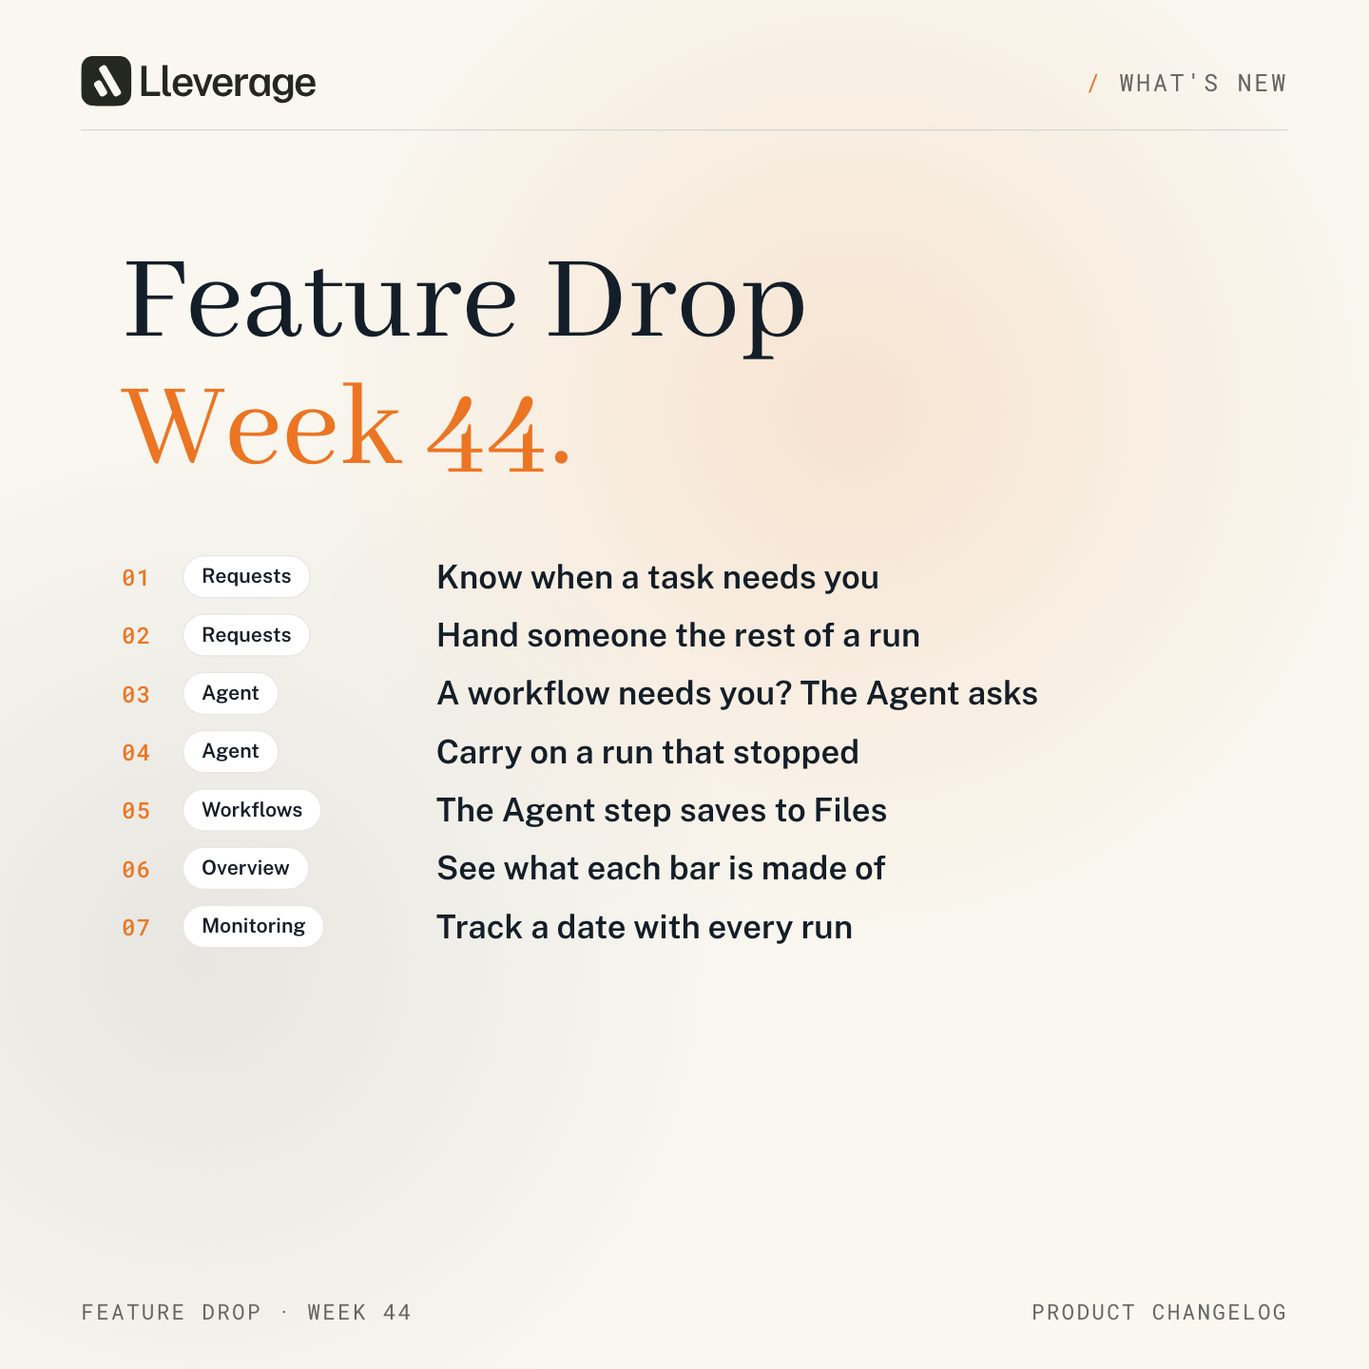
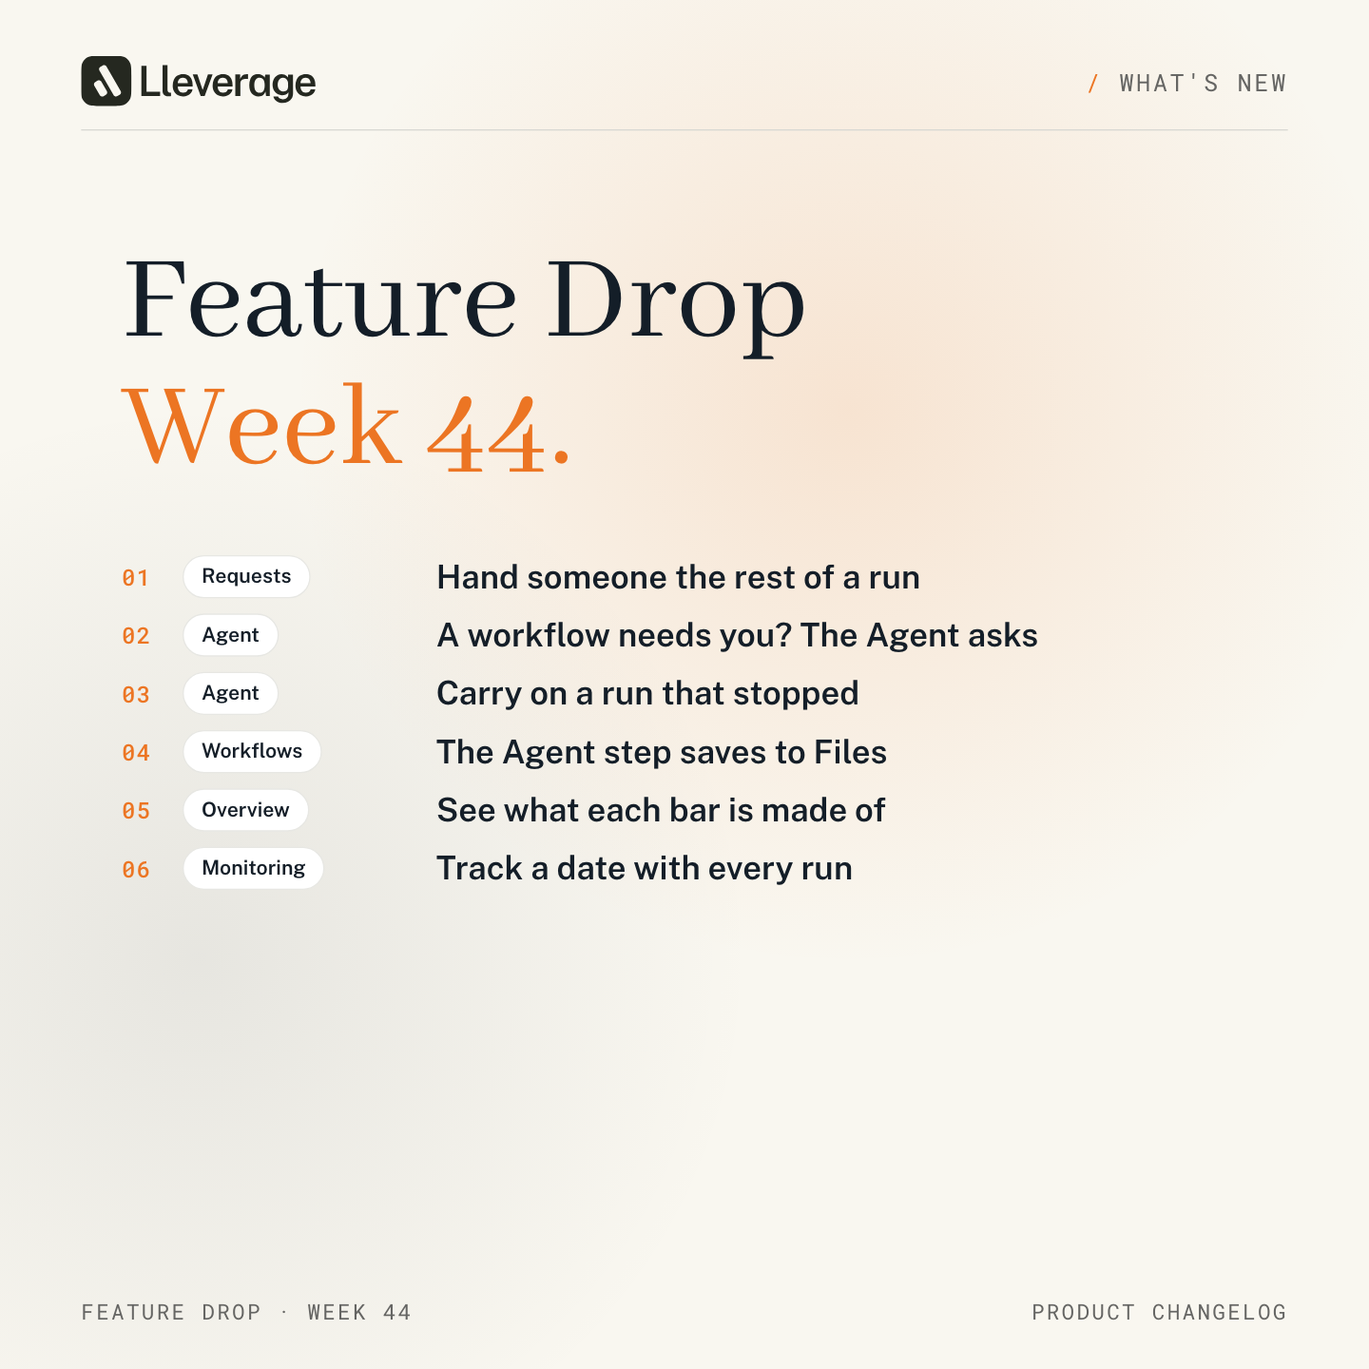
Feature Drop Week 44: six chapters, no push-in on holds, nothing behind a flag
Task notifications and expiring tasks are out: they live only where person tasks are on (conversational-requests). The camera no longer pushes in during holds. Stop the Agent from Slack takes the free Also new row; post and changelog rewritten to match.

Changed region(s): [[0.3125, 0.4062, 0.75, 0.6875], [0.125, 0.5312, 0.25, 0.7188], [0.1562, 0.4375, 0.2188, 0.4688]]

diff --git a/marketing/feature-drops/2026-w44/feature-drop-cards.html b/marketing/feature-drops/2026-w44/feature-drop-cards.html
@@ -52,13 +52,12 @@
     <div class="blk" style="top:190px">
       <h1 class="big">Feature Drop<br><em>Week 44.</em></h1>
       <ul class="rows">
-        <li><span class="n">01</span><span class="mod">Requests</span><span class="t">Know when a task needs you</span></li>
-        <li><span class="n">02</span><span class="mod">Requests</span><span class="t">Hand someone the rest of a run</span></li>
-        <li><span class="n">03</span><span class="mod">Agent</span><span class="t">A workflow needs you? The Agent asks</span></li>
-        <li><span class="n">04</span><span class="mod">Agent</span><span class="t">Carry on a run that stopped</span></li>
-        <li><span class="n">05</span><span class="mod">Workflows</span><span class="t">The Agent step saves to Files</span></li>
-        <li><span class="n">06</span><span class="mod">Overview</span><span class="t">See what each bar is made of</span></li>
-        <li><span class="n">07</span><span class="mod">Monitoring</span><span class="t">Track a date with every run</span></li>
+        <li><span class="n">01</span><span class="mod">Requests</span><span class="t">Hand someone the rest of a run</span></li>
+        <li><span class="n">02</span><span class="mod">Agent</span><span class="t">A workflow needs you? The Agent asks</span></li>
+        <li><span class="n">03</span><span class="mod">Agent</span><span class="t">Carry on a run that stopped</span></li>
+        <li><span class="n">04</span><span class="mod">Workflows</span><span class="t">The Agent step saves to Files</span></li>
+        <li><span class="n">05</span><span class="mod">Overview</span><span class="t">See what each bar is made of</span></li>
+        <li><span class="n">06</span><span class="mod">Monitoring</span><span class="t">Track a date with every run</span></li>
       </ul>
     </div>
     <div class="footer"><span>Feature Drop · Week 44</span><span>Product changelog</span></div>
@@ -74,7 +73,7 @@
         <li><div><b>Requests views keep their filters</b><small>Each view keeps your filter edits; Reset to view puts it back</small></div><span class="mod">Requests</span></li>
         <li><div><b>A sidebar grouped by what you do</b><small>Automations, Intelligence, Monitoring and Control; members and billing in Settings</small></div><span class="mod">Navigation</span></li>
         <li><div><b>Connect Notion and BigQuery</b><small>The Agent shows a sign-in card instead of asking for a token</small></div><span class="mod">Agent · Connections</span></li>
-        <li><div><b>Tasks that expire</b><small>Ask the Agent for a task with an end date; you hear if nobody answers in time</small></div><span class="mod">Requests</span></li>
+        <li><div><b>Stop the Agent from Slack</b><small>Say "stop" in the thread and the Agent stops</small></div><span class="mod">Agent · Slack</span></li>
         <li><div><b>Dark mode in midnight blue</b><small>The dark theme follows the Lleverage brand colours</small></div><span class="mod">Appearance</span></li>
       </ul>
     </div>

diff --git a/marketing/feature-drops/2026-w44/clip.js b/marketing/feature-drops/2026-w44/clip.js
@@ -6,7 +6,7 @@
 // - canvas: one steady window on a drifting paper background. The chapter title takes the captions' place, words rise
 //   in through a mask, the content fades between chapters, and a chapter line under the logo shows the cut. Square and
 //   landscape frames give the stage the whole width under the captions, and the app plane grows to fill it.
-// Motion (word reveals, the background, the camera's push during holds) is on in canvas and off in classic; ?motion=1
+// Motion (word reveals, the background) is on in canvas and off in classic; ?motion=1
 // or ?motion=0 overrides it. render-plane.mjs draws the app as a flat image (window.LAYOUT says where), so zooms and
 // pans never re-draw its text. The background drifts on the video's own clock (?t0=, seconds of the parts before this
 // one), so it carries on across cuts.
@@ -247,10 +247,9 @@ const C = (() => {
     const held = (t) => t + holds.reduce((s, [at, d]) => s + (at < t ? d : 0), 0);
     TL2RAW = (t) => held(Math.max(0, loc(t))); PART_FROM = from;
     duration = to - from + lead + holds.reduce((s, [, d]) => s + d, 0);
-    // The camera pushes in 3.5% over each hold and eases back after it.
-    const rawHolds = []; let acc = 0;
-    for (const [at, d] of holds) { rawHolds.push([at + acc, d]); acc += d; }
-    const drift = (r) => 1 + 0.035 * rawHolds.reduce((s, [a, d]) => s + io(p(r, a, a + d)) * (1 - io(p(r, a + d, a + d + 0.8))), 0);
+    // A hold freezes the camera where it is. It never pushes in: a few percent of zoom on every hold reads as a
+    // micro-zoom and distracts (Week 44 review). The only zooms are the ones keyed in a clip's camera.
+    const drift = () => 1;
 
     const frame = $$(".frame").find((f) => getComputedStyle(f).display !== "none") || $(".frame");
     const amb = MOTION ? ambient(frame) : null;

diff --git a/marketing/feature-drops/2026-w44/ch2-workflow-asks.html b/marketing/feature-drops/2026-w44/ch2-workflow-asks.html
@@ -120,7 +120,7 @@
 <script src="clip.js"></script>
 <script src="chapter.js"></script>
 <script>
-  CHAPTER({ n: 3, total: 7, module: "Agent", footerLeft: "Feature Drop · Week 44",
+  CHAPTER({ n: 2, total: 6, module: "Agent", footerLeft: "Feature Drop · Week 44",
     title: "A workflow needs you?<br><em>The Agent asks on a card.</em>",
     line: "When the Agent runs a workflow and it stops at a Form, Chat, Record Voice or approval step, the chat asks you on a card, and your answer carries the same run on to its end." });
   const D = 11.2;

diff --git a/marketing/feature-drops/2026-w44/ch5-stacked-bars.html b/marketing/feature-drops/2026-w44/ch5-stacked-bars.html
@@ -112,7 +112,7 @@
 <script src="clip.js"></script>
 <script src="chapter.js"></script>
 <script>
-  CHAPTER({ n: 6, total: 7, module: "Overview", footerLeft: "Feature Drop · Week 44",
+  CHAPTER({ n: 5, total: 6, module: "Overview", footerLeft: "Feature Drop · Week 44",
     title: "See what each bar<br><em>is made of.</em>",
     line: "A dashboard bar chart on a data table can be stacked: pick Stacked bar, choose the column to split by, and each bar shows a coloured segment per value. The Agent builds them too." });
   const D = 8.2;

diff --git a/marketing/feature-drops/2026-w44/ch3-continue.html b/marketing/feature-drops/2026-w44/ch3-continue.html
@@ -78,7 +78,7 @@
 <script src="clip.js"></script>
 <script src="chapter.js"></script>
 <script>
-  CHAPTER({ n: 4, total: 7, module: "Agent", footerLeft: "Feature Drop · Week 44",
+  CHAPTER({ n: 3, total: 6, module: "Agent", footerLeft: "Feature Drop · Week 44",
     title: "A run stopped halfway?<br><em>Carry on from there.</em>",
     line: "When an Agent run fails, Continue picks up where the Agent stopped, with everything it already did in that run. Resend still starts over from your last message." });
   const D = 9.4;

diff --git a/marketing/feature-drops/2026-w44/ch6-date-metrics.html b/marketing/feature-drops/2026-w44/ch6-date-metrics.html
@@ -132,7 +132,7 @@
 <script src="clip.js"></script>
 <script src="chapter.js"></script>
 <script>
-  CHAPTER({ n: 7, total: 7, module: "Monitoring", footerLeft: "Feature Drop · Week 44",
+  CHAPTER({ n: 6, total: 6, module: "Monitoring", footerLeft: "Feature Drop · Week 44",
     title: "Track a date<br><em>with every run.</em>",
     line: "A metric can hold a date: the Track Metric step records a day, Activity shows it as a date, and Activity and Requests filter on it with a date picker." });
   const D = 11.6;

diff --git a/marketing/feature-drops/2026-w44/ch1-reassign.html b/marketing/feature-drops/2026-w44/ch1-reassign.html
@@ -159,7 +159,7 @@
 <script src="clip.js"></script>
 <script src="chapter.js"></script>
 <script>
-  CHAPTER({ n: 2, total: 7, module: "Requests", footerLeft: "Feature Drop · Week 44",
+  CHAPTER({ n: 1, total: 6, module: "Requests", footerLeft: "Feature Drop · Week 44",
     title: "Hand someone the rest<br><em>of a run.</em>",
     line: "Reassign a form step to someone else, and Reassign person gives them every open step of that run that was with the first person, not only this one." });
   const D = 11.6;

diff --git a/marketing/feature-drops/2026-w44/ch4-agent-files.html b/marketing/feature-drops/2026-w44/ch4-agent-files.html
@@ -150,7 +150,7 @@
 <script src="clip.js"></script>
 <script src="chapter.js"></script>
 <script>
-  CHAPTER({ n: 5, total: 7, module: "Workflows", footerLeft: "Feature Drop · Week 44",
+  CHAPTER({ n: 4, total: 6, module: "Workflows", footerLeft: "Feature Drop · Week 44",
     title: "The Agent step<br><em>saves to Files.</em>",
     line: "An Agent step in a live workflow can read and save Project Files, the way a Write Project File step does, so what it finds stays with the project." });
   const D = 9.6;

diff --git a/marketing/feature-drops/2026-w44/SPEC.md b/marketing/feature-drops/2026-w44/SPEC.md
@@ -1,8 +1,8 @@
 # Feature Drop · Week 44: chapter specs
 
-Theme: people stay in the loop, and runs don't stall. Seven chapters, canvas style, 1440 × 1440.
+Theme: people stay in the loop, and runs don't stall. Six chapters, canvas style, 1440 × 1440.
 Window: merged 20–23 Oct 2026, live in production (app and agent-service at 5fbb9ee, 23 Oct 12:15 UTC).
-Footer: "Feature Drop · Week 44". `CHAPTER({ n, total: 7, module, footerLeft: "Feature Drop · Week 44", title, line })`.
+Footer: "Feature Drop · Week 44". `CHAPTER({ n, total: 6, module, footerLeft: "Feature Drop · Week 44", title, line })`.
 
 People: Eva Visser (EV), Tom de Groot (TG), Mila Jansen (MJ). Project "Order intake".
 Data: orders, invoices, POs, Exact Online; Van Dijk Metaal, Kuipers Hout, Smit Elektro, Bakker Installatietechniek;
@@ -11,35 +11,36 @@ PO 4500012877; euro amounts.
 Left out (flagged or not deployed): Processes and Cases (`processes`, Lleverage-only), browser extension
 (`browser-extension`), meeting recordings in the native apps (`meeting-recordings`), live inbox (`live-inbox`),
 live widgets (`live-widgets`, not deployed), the "Waiting for you" list (`conversational-requests`), Entra domain
-discovery (builds on `directory-sync`).
+discovery (builds on `directory-sync`), and everything on person tasks (`conversational-requests`, Lleverage only):
+task notifications, reminders, expiry and the email digest's tasks (Week 44 review: the first cut showed them).
+
+Camera: no push-in on holds (removed from clip.js after the Week 44 review); one real zoom per chapter at most.
 
 ## Placement (narrative.md)
 
 | # | Feature | For | Moves | Diff. | Example |
 | --- | --- | --- | --- | --- | --- |
-| 1 | Task notifications (in-app and email) | operator | people asked only for what needs them | 3, 5 | Quote & Sell: approve a discount |
-| 2 | Reassign a person for the rest of a run | operator, manager | people asked only for what needs them | 3 | Pay & Collect: invoice booking steps |
-| 3 | A workflow stops, the Agent asks on a card | operator, builder | more steps run on their own | 3 | Quote & Sell: order entry workflow needs a PO |
-| 4 | Retry continues a failed run | builder | faster to implement; trust | 4 | Quote & Sell |
-| 5 | Agent step saves to Project Files | builder | more steps run on their own | 3, 2 | Pay & Collect: supplier invoice summary |
-| 6 | Stacked bar charts | manager | operation visible | 2 | Quote & Sell: orders per day by status |
-| 7 | Date metrics | manager, builder | operation visible | 5 | Deliver & Support: promised delivery date |
+| 1 | Reassign a person for the rest of a run | operator, manager | people asked only for what needs them | 3 | Pay & Collect: invoice booking steps |
+| 2 | A workflow stops, the Agent asks on a card | operator, builder | more steps run on their own | 3 | Quote & Sell: order entry workflow needs a PO |
+| 3 | Retry continues a failed run | builder | faster to implement; trust | 4 | Quote & Sell |
+| 4 | Agent step saves to Project Files | builder | more steps run on their own | 3, 2 | Pay & Collect: supplier invoice summary |
+| 5 | Stacked bar charts | manager | operation visible | 2 | Quote & Sell: orders per day by status |
+| 6 | Date metrics | manager, builder | operation visible | 5 | Deliver & Support: promised delivery date |
 
 ## Chapters
 
 | # | File | Module | Title | Captions | Source PRs |
 | --- | --- | --- | --- | --- | --- |
-| 1 | `ch1-notifications.html` | Requests | Know when a task / *needs you.* | A task for you? / *The bell tells you.* · Open it / *and answer.* · Eva hears back / *as soon as Mila answers.* | #8895, #8890, #8899, #9054, #9091 |
-| 2 | `ch2-reassign.html` | Requests | Hand someone the rest / *of a run.* | Tom is out today? / *Pick someone else.* · Reassign person hands Mila / *the rest of the run.* · Every change stays / *on the step.* | #8995 |
-| 3 | `ch3-workflow-asks.html` | Agent | A workflow needs you? / *The Agent asks on a card.* | Ask the Agent to run a workflow. / *It stops for a PO number.* · Fill it in on the card. / *The same run carries on.* · The order is drafted / *in Exact Online.* | #8551 (#8082's card) |
-| 4 | `ch4-continue.html` | Agent | A run stopped halfway? / *Carry on from there.* | A run stopped halfway? / *Press Continue.* · It picks up where it stopped, / *with everything it did.* | #9008 |
-| 5 | `ch5-agent-files.html` | Workflows | The Agent step / *saves to Files.* | An Agent step in a workflow / *saves what it found.* · The file is in Files, / *with the rest of the project.* | #8790, #8792 |
-| 6 | `ch6-stacked-bars.html` | Overview | See what each bar / *is made of.* | Pick Stacked bar / *and what to split it by.* · Each bar shows / *a segment per status.* | #8941 |
-| 7 | `ch7-date-metrics.html` | Monitoring | Track a date / *with every run.* | A metric can be a date. / *Pick Date as its type.* · Activity shows the day, / *and filters on it.* | #8944, #8957 |
+| 1 | `ch1-reassign.html` | Requests | Hand someone the rest / *of a run.* | Tom is out today? / *Pick someone else.* · Reassign person hands Mila / *the rest of the run.* · Every change stays / *on the step.* | #8995 |
+| 2 | `ch2-workflow-asks.html` | Agent | A workflow needs you? / *The Agent asks on a card.* | Ask the Agent to run a workflow. / *It stops for a PO number.* · Fill it in on the card. / *The same run carries on.* · The order is drafted / *in Exact Online.* | #8551 (#8082's card) |
+| 3 | `ch3-continue.html` | Agent | A run stopped halfway? / *Carry on from there.* | A run stopped halfway? / *Press Continue.* · It picks up where it stopped, / *with everything it did.* | #9008 |
+| 4 | `ch4-agent-files.html` | Workflows | The Agent step / *saves to Files.* | An Agent step in a workflow / *saves what it found.* · The file is in Files, / *with the rest of the project.* | #8790, #8792 |
+| 5 | `ch5-stacked-bars.html` | Overview | See what each bar / *is made of.* | Pick Stacked bar / *and what to split it by.* · Each bar shows / *a segment per status.* | #8941 |
+| 6 | `ch6-date-metrics.html` | Monitoring | Track a date / *with every run.* | A metric can be a date. / *Pick Date as its type.* · Activity shows the day, / *and filters on it.* | #8944, #8957 |
 
 UI read from origin/main on 23 Oct: the sidebar after #8934 (pins, Agent section, Automations / Intelligence /
 Monitoring / Control, the bell in the bottom row) is in `app.js`; per-screen sources are noted in each chapter's CSS.
 
 Also new (cover card 2): next-step suggestions (#8962) · Requests views keep their filters (#8992, #8994, #8998,
 #8993) · sidebar regroup and settings in one place (#8934, #8834) · Notion and BigQuery by OAuth (#9096) · tasks that
-expire (#8896, #8899) · dark mode in midnight blue (#8750).
+Stop the Agent from Slack (#8940) · dark mode in midnight blue (#8750).

diff --git a/marketing/feature-drops/2026-w44/changelog-entry.md b/marketing/feature-drops/2026-w44/changelog-entry.md
@@ -1,13 +1,12 @@
 {% update date="2026-10-26" tags="new-releases,improvements,fixes" %}
-## Week 44: people in the loop, runs that keep going
+## Week 44: runs that keep going
 
 {% embed url="https://www.youtube.com/watch?v=<id>" %}
 
-This week is about the moments a process needs a person. Tasks reach the right people in the app and by email, a workflow the Agent runs asks you on a card when it needs an answer, and a run that stops halfway carries on from where it was.
+This week is about runs that keep going. A workflow the Agent runs asks you on a card when it needs an answer, the rest of a run can move to someone else in one go, and a run that stops halfway carries on from where it was.
 
 ### New features
 
-* **Know when a task needs you.** When a task is raised or passed to you, you get a notification under the bell in the sidebar and an email. A task with a due date reminds you a day before and again when it's overdue, and the person who asked hears as soon as you answer or decline. Waiting tasks are also listed in the email digest. [Requests](https://docs.lleverage.ai/run-operations/request-inbox)
 * **Hand someone the rest of a run.** Reassigning a form step in a workflow run now offers two choices. **Reassign task** moves only this step, as before. **Reassign person** also moves every open step of that run that was with the first person, so the next form, such as **Confirm invoice details** after **Select supplier**, goes to the new person too. The step's header keeps the history of who it was assigned to. [Request input](https://docs.lleverage.ai/build-and-improve/automate/human-handoffs/request-input-page)
 * **A workflow needs you? The Agent asks.** When the Agent runs a workflow from the chat and it stops at a Form, Chat, Record Voice or approval step, the chat shows that step as a card above the composer. Fill it in, for example a missing PO number, and the same run carries on to its end. [Use the Agent](https://docs.lleverage.ai/run-operations/agent/getting-started)
 * **Carry on a run that stopped.** When an Agent run fails partway, **Continue** picks up where the Agent stopped, with every step it already took in that run. **Resend** still sends your last message again and starts over. [Use the Agent](https://docs.lleverage.ai/run-operations/agent/getting-started)
@@ -17,11 +16,10 @@ This week is about the moments a process needs a person. Tasks reach the right p
 
 ### Improvements
 
-* **The next step, one click away.** After each answer, up to three suggestions for the next step of the work sit in one row above the composer, such as running a workflow on new emails or bringing in a colleague.
+* **The next step, one click away.** After each answer, up to three suggestions for the next step of the work sit in one row above the composer, such as running a workflow on new emails or connecting a system the work needs.
 * **Requests views keep their filters.** Each view keeps your filter edits until you choose **Reset to view**, filters can be shown or hidden per view, and you stay in your view after completing a step. Hide the requests list to give a request the full width.
 * **A sidebar grouped by what you do.** The project sidebar groups pages under **Automations** (Workflows, Skills, Channels, Schedules), **Intelligence** (Tables, Memory, Connections, Files, Knowledge), **Monitoring** and **Control**. Members, billing and project settings all open inside **Settings**. [Project navigation](https://docs.lleverage.ai/run-operations/overview/navigation)
 * **Connect Notion and BigQuery from the chat.** Ask the Agent to connect Notion or Google BigQuery and it shows a sign-in card instead of asking for a token.
-* **Tasks that expire.** Ask the Agent for a task with an end date. If nobody answers in time, the task expires and the person who asked hears about it, in the app and by email.
 * **Agent steps reach every table in their project.** An Agent step in a workflow can read and write all the project's data tables, the way the workflow's Data Tables steps can.
 * **Stop the Agent from Slack.** Say "stop" in the Slack thread and the Agent stops.
 * **More on the Agent.** A finished skill build says what the skill still can't do. The Agent can list the organisation's members and invite someone, after an approval card. Item list fields can switch off deleting rows.

diff --git a/marketing/feature-drops/2026-w44/linkedin-post.md b/marketing/feature-drops/2026-w44/linkedin-post.md
@@ -1,15 +1,15 @@
 Lleverage Feature Drop Week #44 🎁
 
-A run that waits on a person is only as fast as the moment that person notices.
+Most back-office work isn't hard. It's waiting: for a PO number, for someone who's out today, for a run that broke halfway to be started over.
 
-Until this week, a task for Mila sat in Requests until she happened to look. Now she hears about it: in the app and by email when it lands, a day before it's due, and when it's overdue. Eva hears back the moment Mila answers.
+This week we took a lot of that waiting out.
 
-An autonomous back office still has people in it. Orders and invoices run on their own, and people step in for the discount, the missing PO, the price that doesn't match. Those moments have to reach the right person fast, or the whole process waits.
+When a workflow the Agent runs stops for a PO number, it asks you on a card in the chat, and the same run carries on. If Tom is out, you hand Mila the rest of the run in one go instead of step by step. And when a run breaks halfway, Continue picks it up where it stopped, with everything it already did.
 
-So when a workflow the Agent runs stops for a PO number, it now asks you on a card and carries the same run on. If Tom is out, you hand Mila the rest of the run in one go. And a run that breaks halfway continues where it stopped.
+That's the autonomous back office in practice: orders and invoices run on their own, people step in where they're needed, and the process doesn't stall around them.
 
 My favourite: Continue. Nothing is lost when a run trips.
 
-Plus stacked bar charts, date metrics and more. Full changelog in the comments.
+Plus Agent steps that save to Files, stacked bar charts, date metrics and more. Full changelog in the comments.
 
 Music: Muted Trumpet Jazz Study Session by Alex Morgan, CC BY 4.0
